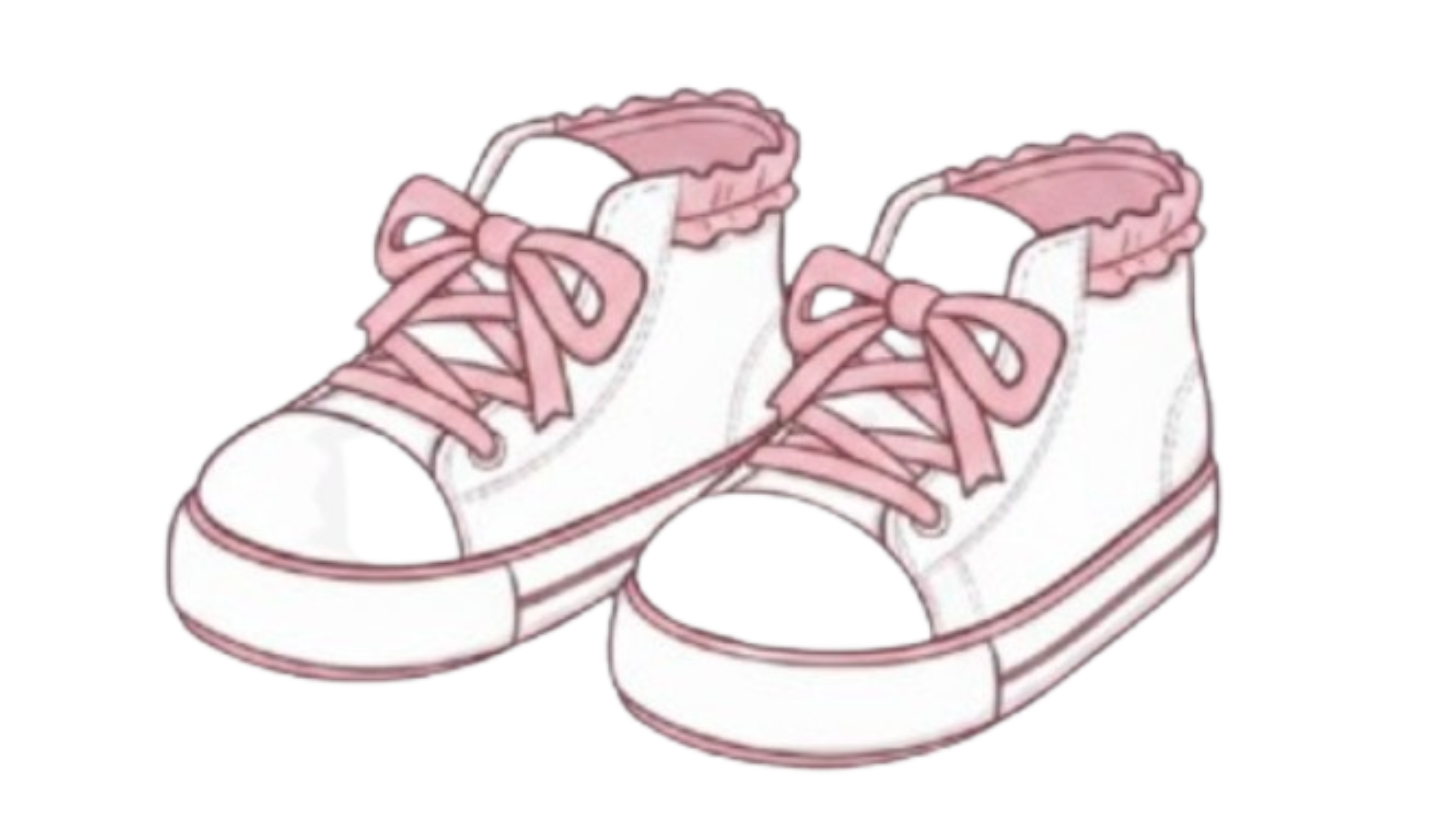
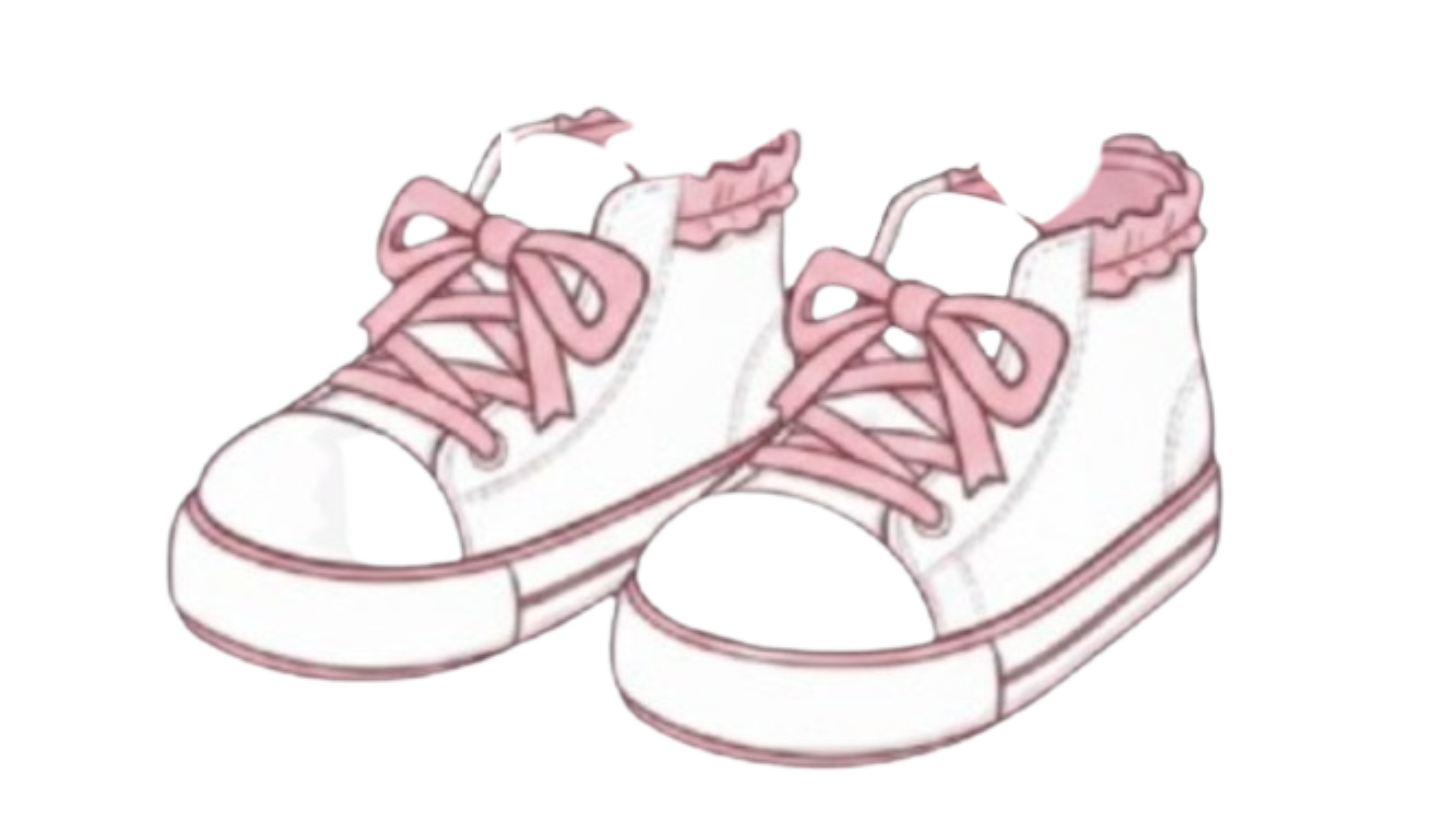
c2

diff --git a/src/component/pages/P17.jsx b/src/component/pages/P17.jsx
@@ -9,28 +9,28 @@ export default function P17(){
             <p className="p17-text">Hairstyle that flatter your outfit perfectly 🎀</p>
 
             <div className="p17-btn">
-                <img src="/p17-img1.png" alt="" className="p17-img1"/>
+                <img src="p17-img1.png" alt="" className="p17-img1"/>
                 <button className="p17-btn1" onClick={()=>localStorage.setItem("hairstyle","p17-img1")}>Select</button>
 
-                <img src="/p17-img2.png" alt="" className="p17-img2"/>
+                <img src="p17-img2.png" alt="" className="p17-img2"/>
                 <button className="p17-btn2" onClick={()=>localStorage.setItem("hairstyle","p17-img2")}>Select</button>
 
-                <img src="/p17-img3.png" alt="" className="p17-img3"/>
+                <img src="p17-img3.png" alt="" className="p17-img3"/>
                 <button className="p17-btn3" onClick={()=>localStorage.setItem("hairstyle","p17-img3")}>Select</button>
 
-                <img src="/p17-img4.png" alt="" className="p17-img4"/>
+                <img src="p17-img4.png" alt="" className="p17-img4"/>
                 <button className="p17-btn4" onClick={()=>localStorage.setItem("hairstyle","p17-img4")}>Select</button>
 
-                <img src="/p17-img5.png" alt="" className="p17-img5"/>
+                <img src="p17-img5.png" alt="" className="p17-img5"/>
                 <button className="p17-btn5" onClick={()=>localStorage.setItem("hairstyle","p17-img5")}>Select</button>
 
-                <img src="/p17-img6.png" alt="" className="p17-img6"/>
+                <img src="p17-img6.png" alt="" className="p17-img6"/>
                 <button className="p17-btn6" onClick={()=>localStorage.setItem("hairstyle","p17-img6")}>Select</button>
 
-                <img src="/p17-img7.png" alt="" className="p17-img7"/>
+                <img src="p17-img7.png" alt="" className="p17-img7"/>
                 <button className="p17-btn7" onClick={()=>localStorage.setItem("hairstyle","p17-img7")}>Select</button>
 
-                <img src="/p17-img8.png" alt="" className="p17-img8"/>
+                <img src="p17-img8.png" alt="" className="p17-img8"/>
                 <button className="p17-btn8" onClick={()=>localStorage.setItem("hairstyle","p17-img8")}>Select</button>
 
                 <button className="p17-next" onClick={()=> Navigate("/P7")}>SAVE</button>

diff --git a/src/component/pages/P5.jsx b/src/component/pages/P5.jsx
@@ -22,12 +22,12 @@ export default function P5(){
             <p className="p5-text">Tap to find your perfect look! 🌸</p>
 
             <div className="p5-img">
-                <img src="/p5-img1.png" alt="" className="p5-img1"/>
-                <img src="/p5-img2.png" alt="" className="p5-img2"/>
-                <img src="/p5-img3.png" alt="" className="p5-img3"/>
-                <img src="/p5-img4.png" alt="" className="p5-img4"/>
-                <img src="/p5-img5.png" alt="" className="p5-img5"/>
-                <img src="/p5-img6.png" alt="" className="p5-img6"/>
+                <img src="p5-img1.png" alt="" className="p5-img1"/>
+                <img src="p5-img2.png" alt="" className="p5-img2"/>
+                <img src="p5-img3.png" alt="" className="p5-img3"/>
+                <img src="p5-img4.png" alt="" className="p5-img4"/>
+                <img src="p5-img5.png" alt="" className="p5-img5"/>
+                <img src="p5-img6.png" alt="" className="p5-img6"/>
             </div>
 
             <div className="p5-btn">

diff --git a/src/component/pages/P13.jsx b/src/component/pages/P13.jsx
@@ -11,11 +11,11 @@ export default function P13(){
             <h1 className="p13-heading">Here Is Your Final Look</h1>
             <p className="p13-text">Your dream look is ready — own it! ✨</p>
             <div className="p13-layers">
-                <img src="/p13-img.png" alt="img not found" className="p13-maniqune"/>
-                <img src={`/${hair}.png`} alt="img not found" className="p13-hair"/>
-                <img src={`/${makeup}.png`} alt="img not found" className="p13-makeup"/>
-                <img src={`/${outfit}.png`} alt="img not found" className="p13-outfit"/>
-                <img src={`/${footwear}.png`} alt="img not found" className="p13-footwear"/>
+                <img src="p13-img.png" alt="img not found" className="p13-maniqune"/>
+                <img src={`${hair}.png`} alt="img not found" className="p13-hair"/>
+                <img src={`${makeup}.png`} alt="img not found" className="p13-makeup"/>
+                <img src={`${outfit}.png`} alt="img not found" className="p13-outfit"/>
+                <img src={`${footwear}.png`} alt="img not found" className="p13-footwear"/>
             </div>
             <h1 className="p13-rate">Rate Your Look!</h1>
             <h1 className="p13-star">⭐️ ⭐️ ⭐️ ⭐️ ⭐️</h1>

diff --git a/src/component/pages/P2.jsx b/src/component/pages/P2.jsx
@@ -23,11 +23,11 @@ export default function P2(){
             <h1 className="p2-head">Select Your Skin Tone ?</h1>
             <p className="p2-text">Tap to find your perfect look! 🌸</p>
             <div className="p2-img">    
-                <img src="/img1.png" alt="" className="p2-img1"/>
-                <img src="/img2.png" alt="" className="p2-img2"/>
-                <img src="/img3.png" alt="" className="p2-img3"/>
-                <img src="/img4.png" alt="" className="p2-img4"/>
-                <img src="/img5.png" alt="" className="p2-img5"/>
+                <img src="img1.png" alt="" className="p2-img1"/>
+                <img src="img2.png" alt="" className="p2-img2"/>
+                <img src="img3.png" alt="" className="p2-img3"/>
+                <img src="img4.png" alt="" className="p2-img4"/>
+                <img src="img5.png" alt="" className="p2-img5"/>
             </div>
             <div className="p2-btn">
                 <button className="p2-fair" onClick={()=> setselected("Fair")} 

diff --git a/src/component/pages/P4.jsx b/src/component/pages/P4.jsx
@@ -23,11 +23,11 @@ export default function P4(){
             <p className="p4-text">Tap to find your perfect look! 🌸</p>
 
             <div className="p4-img">
-                <img src="/p4-img1.png" alt="" className="p4-img1"/>
-                <img src="/p4-img2.png" alt="" className="p4-img2"/>
-                <img src="/p4-img3.png" alt="" className="p4-img3"/>
-                <img src="/p4-img4.png" alt="" className="p4-img4"/>
-                <img src="/p4-img5.png" alt="" className="p4-img5"/>
+                <img src="p4-img1.png" alt="" className="p4-img1"/>
+                <img src="p4-img2.png" alt="" className="p4-img2"/>
+                <img src="p4-img3.png" alt="" className="p4-img3"/>
+                <img src="p4-img4.png" alt="" className="p4-img4"/>
+                <img src="p4-img5.png" alt="" className="p4-img5"/>
             </div>
 
             <div className="p4-btn">

diff --git a/src/component/pages/P10.jsx b/src/component/pages/P10.jsx
@@ -9,16 +9,16 @@ export default function P10(){
             <p className="p10-text">Shades that enhance your natural beauty 💄</p>
 
             <div className="p10-btn">
-                <img src="/p10-img1.png" alt="img not found" className="p10-img1"/>
+                <img src="p10-img1.png" alt="img not found" className="p10-img1"/>
                 <button className="p10-btn1" onClick={()=>localStorage.setItem("makeup","p10-img1")}>Foundation</button>
 
-                <img src="/p10-img2.png" alt="img not found" className="p10-img2"/>
+                <img src="p10-img2.png" alt="img not found" className="p10-img2"/>
                 <button className="p10-btn2" onClick={()=>localStorage.setItem("makeup","p10-img2")}>Lipstick</button>
 
-                <img src="/p10-img3.png" alt="img not found" className="p10-img3"/>
+                <img src="p10-img3.png" alt="img not found" className="p10-img3"/>
                 <button className="p10-btn3" onClick={()=>localStorage.setItem("makeup","p10-img3")}>Eyeshadow</button>
 
-                <img src="/p10-img4.png" alt="img not found" className="p10-img4"/>
+                <img src="p10-img4.png" alt="img not found" className="p10-img4"/>
                 <button className="p10-btn4" onClick={()=>localStorage.setItem("makeup","p10-img4")}>Blush</button>
 
                 <button className="p10-next" onClick={()=> Navigate("/P7")}>SAVE</button>

diff --git a/src/component/pages/P11.jsx b/src/component/pages/P11.jsx
@@ -9,16 +9,16 @@ export default function P11(){
             <p className="p11-text">Outfits that flatter your shape & tone perfectly 🎀</p>
 
             <div className="p11-btn">
-                <img src="/p11-img1.png" alt="" className="p11-img1"/>
+                <img src="p11-img1.png" alt="" className="p11-img1"/>
                 <button className="p11-btn1" onClick={()=>localStorage.setItem("outfit","p11-img1")}>Gown</button>
 
-                <img src="/p11-img2.png" alt="" className="p11-img2"/>
+                <img src="p11-img2.png" alt="" className="p11-img2"/>
                 <button className="p11-btn2" onClick={()=>localStorage.setItem("outfit","p11-img2")}>Skirt</button>
 
-                <img src="/p11-img3.png" alt="" className="p11-img3"/>
+                <img src="p11-img3.png" alt="" className="p11-img3"/>
                 <button className="p11-btn3" onClick={()=>localStorage.setItem("outfit","p11-img3")}>Jeans</button>
 
-                <img src="/p11-img4.png" alt="" className="p11-img4"/>
+                <img src="p11-img4.png" alt="" className="p11-img4"/>
                 <button className="p11-btn4" onClick={()=>localStorage.setItem("outfit","p11-img4")}>Onepiece</button>
 
                 <button className="p11-next" onClick={()=> Navigate("/P7")}>SAVE</button>

diff --git a/src/component/pages/P12.jsx b/src/component/pages/P12.jsx
@@ -9,16 +9,16 @@ export default function P12(){
             <p className="p12-text">Shades that enhance your natural beauty 💄</p>
 
             <div className="p12-btn">
-                <img src="/p12-img1.png" alt="" className="p12-img1"/>
+                <img src="p12-img1.png" alt="" className="p12-img1"/>
                 <button className="p12-btn1" onClick={()=>localStorage.setItem("footwear","p12-img1")}>Sneakers</button>
 
-                <img src="/p12-img2.png" alt="" className="p12-img2"/>
+                <img src="p12-img2.png" alt="" className="p12-img2"/>
                 <button className="p12-btn2" onClick={()=>localStorage.setItem("footwear","p12-img2")}>Sandals</button>
 
-                <img src="/p12-img3.png" alt="" className="p12-img3"/>
+                <img src="p12-img3.png" alt="" className="p12-img3"/>
                 <button className="p12-btn3" onClick={()=>localStorage.setItem("footwear","p12-img3")}>Heels</button>
 
-                <img src="/p12-img4.png" alt="" className="p12-img4"/>
+                <img src="p12-img4.png" alt="" className="p12-img4"/>
                 <button className="p12-btn4" onClick={()=>localStorage.setItem("footwear","p12-img4")}>Boots</button>
 
                 <button className="p12-next" onClick={()=> Navigate("/P7")}>SAVE</button>

diff --git a/src/style/pages/P13.css b/src/style/pages/P13.css
@@ -76,10 +76,10 @@
 }
 .p13-outfit{
     position: absolute;
-    top: 60px;
-    left: 590px;
-    height: 500px;
-    width: 300px;
+    top: 23px;
+    left: 640px;
+    height: 400px;
+    width: 200px;
 }
 .p13-footwear{
     position: absolute;

diff --git a/src/App.jsx b/src/App.jsx
@@ -31,7 +31,7 @@ export default function App(){
   const [selections,setselections]=useState({})
   return(
     <Usercontext.Provider value={{selections,setselections}}>
-      <BrowserRouter>
+      <BrowserRouter basename="/kkumi/">
         <Routes>
           <Route>
             <Route path="/" element={<><Home/><Nav/></>} name="Home"/>

diff --git a/src/component/pages/P14.jsx b/src/component/pages/P14.jsx
@@ -5,7 +5,7 @@ export default function P14(){
         <div className="p14-head">
             <h1 className="p14-heading">Here Is Your Final Look</h1>
             <p className="p14-text">Your dream look is ready — own it! ✨</p>
-            <img src="/p16-img6.png" alt="img not found" className="p14-img"/>
+            <img src="p16-img6.png" alt="img not found" className="p14-img"/>
             <h1 className="p14-rate">Rate Your Look!</h1>
             <h1 className="p14-star">⭐️ ⭐️ ⭐️ ⭐️ ⭐️</h1>
         </div>

diff --git a/src/component/pages/P15.jsx b/src/component/pages/P15.jsx
@@ -5,7 +5,7 @@ export default function P15(){
         <div className="p15-head">
             <h1 className="p15-heading">Here Is Your Final Look</h1>
             <p className="p15-text">Your dream look is ready — own it! ✨</p>
-            <img src="/p16-img5.png" alt="img not found" className="p15-img"/>
+            <img src="p16-img5.png" alt="img not found" className="p15-img"/>
             <h1 className="p15-rate">Rate Your Look!</h1>
             <h1 className="p15-star">⭐️ ⭐️ ⭐️ ⭐️ ⭐️</h1>
         </div>